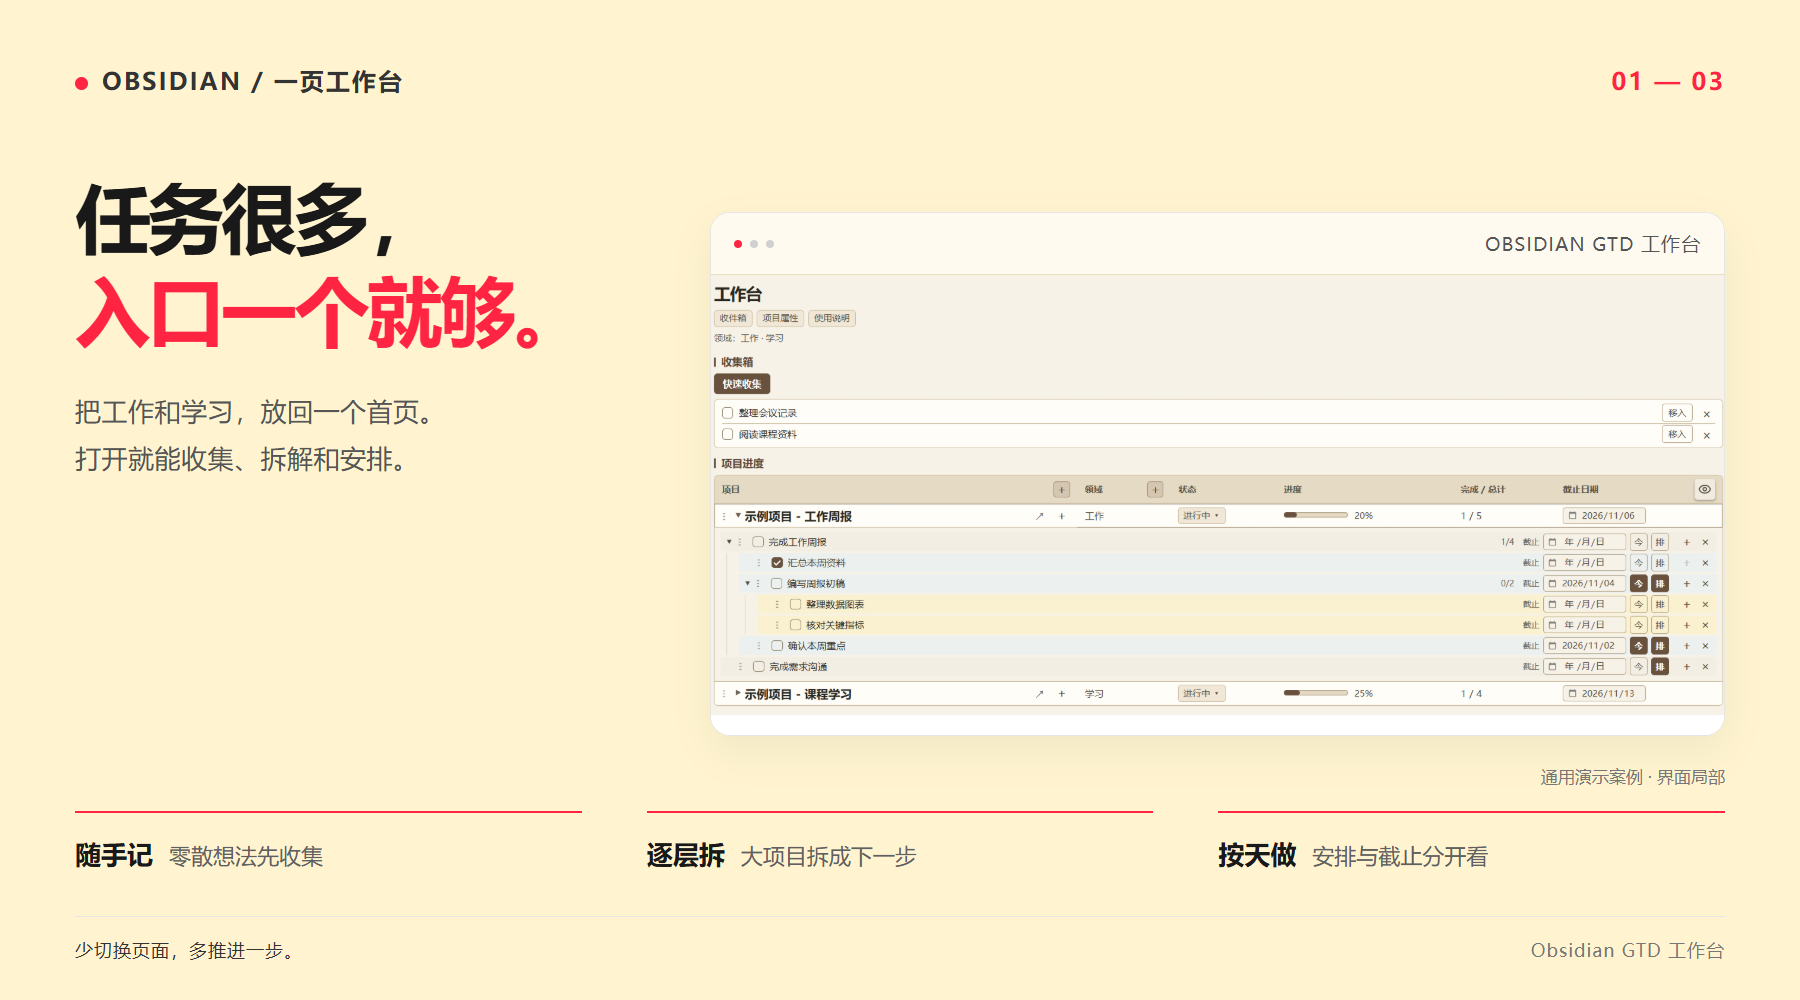
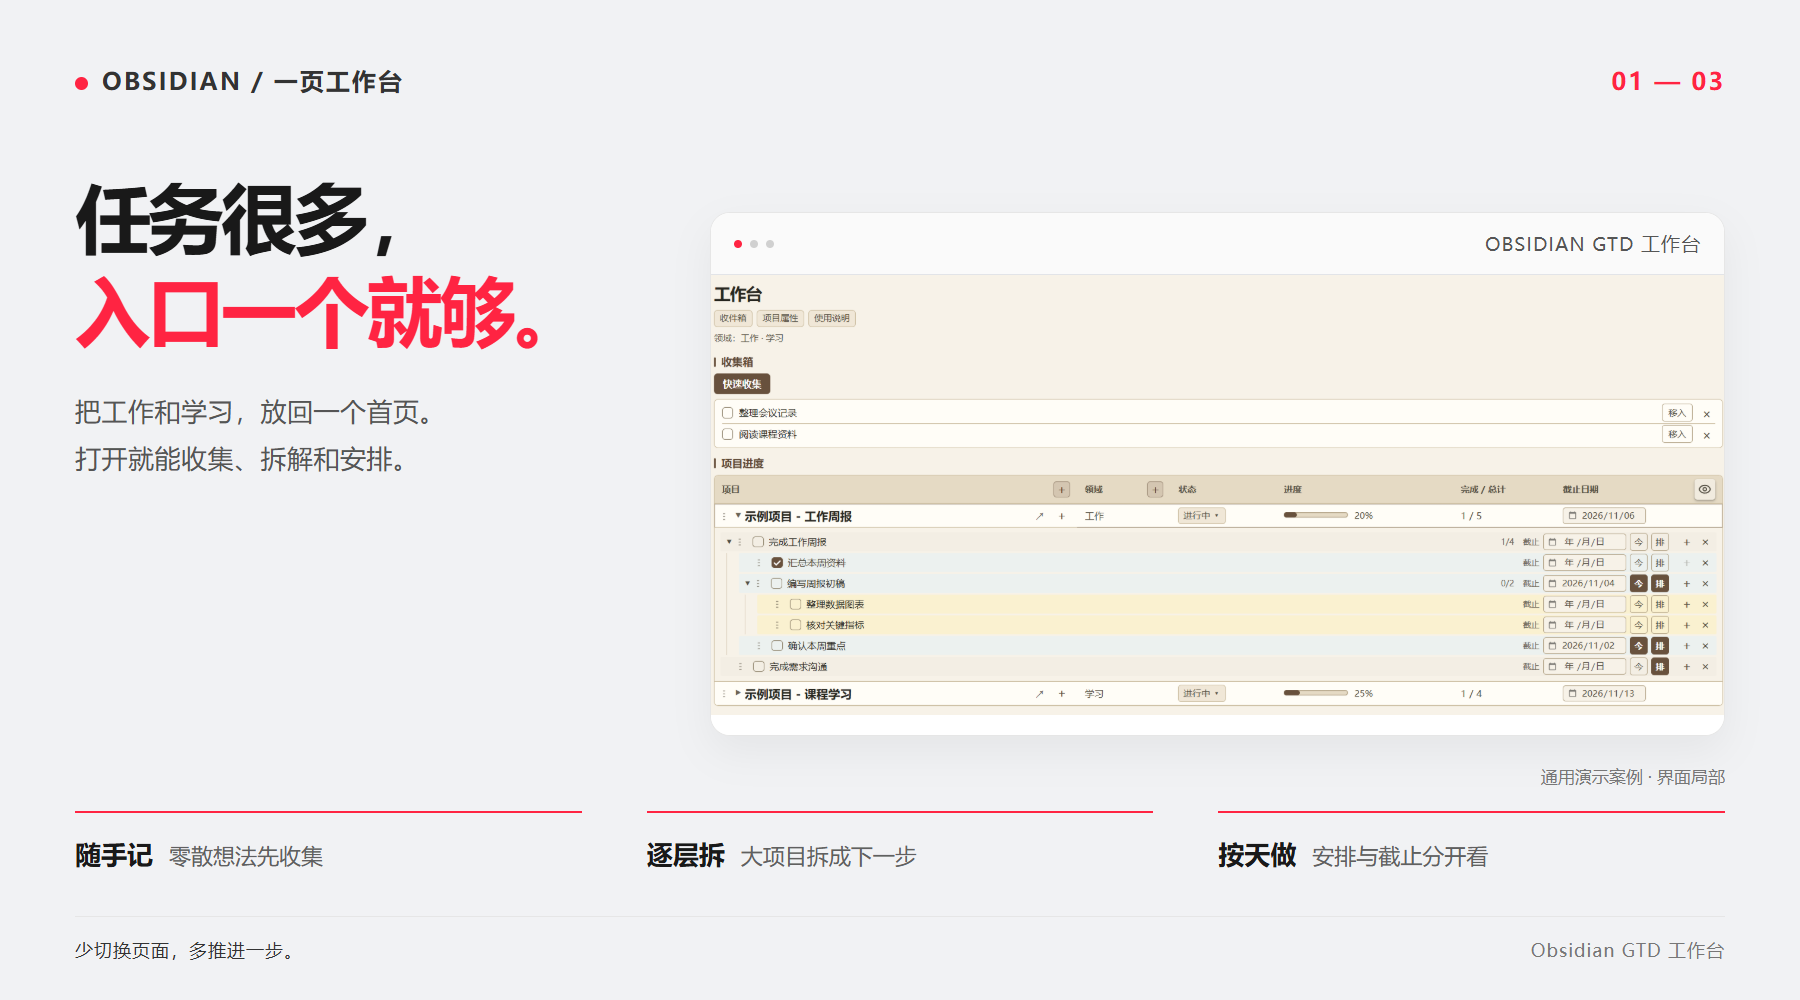
style: use light gray promotional backgrounds

diff --git a/维护资料/宣传配图.html b/维护资料/宣传配图.html
@@ -3,15 +3,15 @@
 <meta charset="utf-8">
 <title>Obsidian GTD 工作台 · 宣传配图</title>
 <style>
-*{box-sizing:border-box}html,body{margin:0;padding:0;background:#fff4cf;color:#191919;font-family:"Microsoft YaHei","PingFang SC",sans-serif}
-.poster{position:relative;width:1080px;height:1440px;overflow:hidden;padding:68px 70px;background:#fff4cf}
+*{box-sizing:border-box}html,body{margin:0;padding:0;background:#f1f2f4;color:#191919;font-family:"Microsoft YaHei","PingFang SC",sans-serif}
+.poster{position:relative;width:1080px;height:1440px;overflow:hidden;padding:68px 70px;background:#f1f2f4}
 .eyebrow{display:flex;justify-content:space-between;align-items:center;color:#333;font-size:22px;font-weight:600;letter-spacing:2px}
 .eyebrow>div:last-child{color:#ff2442}
 .mark{width:13px;height:13px;background:#ff2442;display:inline-block;margin-right:14px;border-radius:50%}
 h1{font-size:88px;line-height:1.2;letter-spacing:-4px;margin:50px 0 27px;font-weight:800}
 h1 span{color:#ff2442}.lead{font-size:31px;line-height:1.7;color:#555;margin:0;letter-spacing:.5px}
 .frame{position:relative;border:1px solid #e6e6e6;border-radius:20px;background:#fff;overflow:hidden;margin-top:38px;box-shadow:0 16px 40px #0000000d}
-.chrome{display:flex;align-items:center;gap:8px;padding:18px 23px;border-bottom:1px solid #eadfbc;font-size:19px;color:#555;letter-spacing:1px;background:#fffaf0}
+.chrome{display:flex;align-items:center;gap:8px;padding:18px 23px;border-bottom:1px solid #e2e4e8;font-size:19px;color:#555;letter-spacing:1px;background:#fafafa}
 .dot{display:inline-block;width:8px;height:8px;border-radius:50%;background:#d0d0d0}.dot:first-child{background:#ff2442}.chrome .label{margin-left:auto}
 .viewport{position:relative;overflow:hidden;height:544px;background:#fff}.viewport img{position:absolute;display:block;max-width:none;height:auto}
 .cover .viewport img{width:1320px;left:-5px;top:0}.cover .viewport{height:520px}

diff --git a/维护资料/README.md b/维护资料/README.md
@@ -6,7 +6,7 @@
 
 仓库根目录的 README 提供简洁介绍；详细安装和操作教程在 `docs/安装与使用.md`，可直接复用的小红书文案在 `docs/小红书图文.md`。`docs/images/` 中的七张界面截图于 2026-11-02 通过 Obsidian.com 从独立演示库的 1.10.2 版本重新截取，使用工作周报与课程学习两个示例项目。
 
-`宣传配图.html` 将这些真实截图排成图文卡片：奶油黄底、白色截图卡片、黑色标题和红色重点。使用 `?card=cover`、`?card=tasks`、`?card=calendar` 选择三张 1080 × 1440 竖图；`?card=cover&format=wide` 为 1800 × 1000 的 README 横图。界面文字来自原始截图，标题和说明是单独的页面元素。重拍截图后，重新渲染这个 HTML 即可更新配图。
+`宣传配图.html` 将这些真实截图排成图文卡片：浅灰底、白色截图卡片、黑色标题和红色重点。使用 `?card=cover`、`?card=tasks`、`?card=calendar` 选择三张 1080 × 1440 竖图；`?card=cover&format=wide` 为 1800 × 1000 的 README 横图。界面文字来自原始截图，标题和说明是单独的页面元素。重拍截图后，重新渲染这个 HTML 即可更新配图。
 
 ## GTD 快捷操作
 
